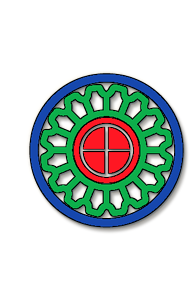
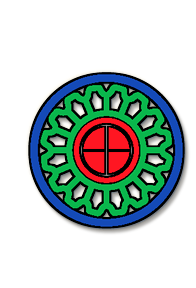
Improve tile symbol readability

diff --git a/tools/generate_cartoon_tile_symbols.py b/tools/generate_cartoon_tile_symbols.py
@@ -16,39 +16,42 @@ from PIL import Image, ImageEnhance, ImageFilter
 ROOT = Path(__file__).resolve().parents[1]
 SOURCE_DIR = ROOT / "res/art/tiles"
 OUT_DIR = ROOT / "res/art/ui_3d_cartoon/tile_symbols"
-CONTACT_SHEET = ROOT / "docs/ui_baseline/mockups/tile_symbols_v1_0_14_contact_sheet.png"
+CONTACT_SHEET = ROOT / "docs/ui_baseline/mockups/tile_symbols_v1_0_17_contact_sheet.png"
 SYMBOL_SIZE = (196, 288)
 SUITS = ("tiao", "tong", "wan")
 SUIT_PARAMS = {
 	"tiao": {
-		"thicken": 3,
-		"alpha": 1.18,
-		"color": 1.08,
-		"contrast": 1.05,
-		"glow": 0.20,
-		"shadow": 0.38,
-		"highlight": 0.18,
-		"rim": (32, 100, 42, 0),
+		"thicken": 5,
+		"alpha": 1.30,
+		"color": 1.12,
+		"contrast": 1.12,
+		"glow": 0.18,
+		"shadow": 0.40,
+		"highlight": 0.24,
+		"rim": (22, 118, 48, 0),
+		"core": (22, 138, 58, 0),
 	},
 	"tong": {
-		"thicken": 3,
-		"alpha": 1.15,
-		"color": 1.10,
-		"contrast": 1.08,
-		"glow": 0.18,
-		"shadow": 0.36,
-		"highlight": 0.16,
-		"rim": (36, 78, 120, 0),
+		"thicken": 4,
+		"alpha": 1.25,
+		"color": 1.13,
+		"contrast": 1.13,
+		"glow": 0.17,
+		"shadow": 0.38,
+		"highlight": 0.22,
+		"rim": (26, 74, 138, 0),
+		"core": (20, 116, 72, 0),
 	},
 	"wan": {
-		"thicken": 5,
-		"alpha": 1.22,
-		"color": 1.06,
-		"contrast": 1.10,
-		"glow": 0.16,
+		"thicken": 6,
+		"alpha": 1.34,
+		"color": 1.10,
+		"contrast": 1.18,
+		"glow": 0.15,
 		"shadow": 0.42,
-		"highlight": 0.16,
-		"rim": (110, 30, 44, 0),
+		"highlight": 0.22,
+		"rim": (138, 26, 42, 0),
+		"core": (26, 92, 138, 0),
 	},
 }
 
@@ -58,12 +61,17 @@ def _mask(alpha: Image.Image, multiplier: float, blur: float = 0.0) -> Image.Ima
 	return mask.point(lambda value: min(255, int(value * multiplier)))
 
 
+def _odd_filter_size(value: int) -> int:
+	size = max(3, int(value))
+	return size if size % 2 == 1 else size + 1
+
+
 def soften_symbol(source_path: Path, suit: str) -> Image.Image:
 	params = SUIT_PARAMS[suit]
 	source = Image.open(source_path).convert("RGBA").resize(SYMBOL_SIZE, Image.Resampling.LANCZOS)
 	r, g, b, alpha = source.split()
 
-	expanded_alpha = alpha.filter(ImageFilter.MaxFilter(int(params["thicken"])))
+	expanded_alpha = alpha.filter(ImageFilter.MaxFilter(_odd_filter_size(int(params["thicken"]))))
 	soft_alpha = expanded_alpha.filter(ImageFilter.GaussianBlur(0.25)).point(
 		lambda value: min(255, int(value * float(params["alpha"])))
 	)
@@ -78,20 +86,28 @@ def soften_symbol(source_path: Path, suit: str) -> Image.Image:
 	contact_shadow.putalpha(_mask(soft_alpha, float(params["shadow"]), 1.35))
 
 	pressed_shadow = Image.new("RGBA", SYMBOL_SIZE, (52, 42, 24, 0))
-	pressed_shadow.putalpha(_mask(expanded_alpha, 0.20, 0.45))
+	pressed_shadow.putalpha(_mask(expanded_alpha, 0.18, 0.55))
 
 	rim = Image.new("RGBA", SYMBOL_SIZE, tuple(params["rim"]))
-	rim.putalpha(_mask(expanded_alpha, 0.24, 0.15))
+	rim.putalpha(_mask(expanded_alpha, 0.24, 0.20))
+
+	core_rim = Image.new("RGBA", SYMBOL_SIZE, tuple(params["core"]))
+	core_rim.putalpha(_mask(alpha, 0.14, 0.10))
 
 	highlight = Image.new("RGBA", SYMBOL_SIZE, (255, 250, 210, 0))
-	highlight.putalpha(_mask(alpha, float(params["highlight"]), 0.35))
+	highlight.putalpha(_mask(alpha, float(params["highlight"]), 0.28))
+
+	edge_light = Image.new("RGBA", SYMBOL_SIZE, (255, 246, 204, 0))
+	edge_light.putalpha(_mask(expanded_alpha, 0.16, 0.70))
 
 	composed = Image.new("RGBA", SYMBOL_SIZE, (0, 0, 0, 0))
 	composed.alpha_composite(contact_shadow, (3, 4))
 	composed.alpha_composite(pressed_shadow, (1, 2))
 	composed.alpha_composite(glow, (-1, -1))
-	composed.alpha_composite(highlight, (-1, -2))
 	composed.alpha_composite(rim, (1, 1))
+	composed.alpha_composite(core_rim, (0, 0))
+	composed.alpha_composite(edge_light, (-1, -2))
+	composed.alpha_composite(highlight, (-1, -2))
 	composed.alpha_composite(symbol)
 	return composed
 

diff --git a/docs/ui_baseline/UX_REFINEMENT_TARGET_AND_PROGRESS.md b/docs/ui_baseline/UX_REFINEMENT_TARGET_AND_PROGRESS.md
@@ -2,7 +2,7 @@
 
 > 状态：执行中  
 > 首版日期：2026-05-11  
-> 当前版本：1.0.16
+> 当前版本：1.0.17
 > 目标界面：主牌桌对局界面  
 > 设计方向：3D 卡通轻奢质感 Mahjong UI  
 > 执行原则：保留已校准布局，逐步资产化和统一视觉系统，每次版本更新后检查目标完成度并继续推进未完成任务。
@@ -35,15 +35,15 @@
 | 布局稳定性 | 现有四家牌区、碰杠、胡牌、弃牌、按钮位置不被破坏，布局合同测试通过 | 85% |
 | 桌面统一性 | 无明显分区底色/边框；桌面有连续绒布纹理、中心光、暗角，但无抢眼装饰线 | 72% |
 | 麻将牌本体 | 厚牌圆角、暖象牙牌面、绿色侧边、统一投影；正背面同一资产体系 | 77% |
-| 正面牌纹 | 条、筒、万、幺鸡等符号与新牌底同风格，线条柔和清晰，不像旧贴图 | 64% |
+| 正面牌纹 | 条、筒、万、幺鸡等符号与新牌底同风格，线条柔和清晰，不像旧贴图 | 70% |
 | 牌背 | 素玉牌背与桌面有足够分离度，无旧圈纹，阴影统一 | 76% |
 | 玩家信息 HUD | 贴边、清晰、弱面板化；字体、头像/定缺、分数、已胡状态统一 | 70% |
 | 操作按钮 | 右上/动作按钮采用同系列 3D 果冻/玉石按钮，触控目标清晰 | 72% |
 | AI 提示 | 提示框居中、大字、只显示内容；推荐牌用悬浮 3D 标记，不遮挡读牌 | 74% |
-| 可访问性 | 手机横屏玩家名/分数/状态可读；关键文字对比度足够，不仅靠颜色表达状态 | 70% |
+| 可访问性 | 手机横屏玩家名/分数/状态可读；关键文字对比度足够，不仅靠颜色表达状态 | 72% |
 | 启动图一致性 | 整体材质、光照、圆润度、颜色气质接近启动界面 | 60% |
 
-当前综合完成度：约 80%。
+当前综合完成度：约 82%。
 达到 100% 的判定：上表所有维度均不低于 90%，且用户截图评审确认「整体接近预期效果」。
 
 ## 4. 执行步骤
@@ -170,10 +170,11 @@
 | 1.0.15 | `797d5ea` | 2026-05-11 | 弱化玩家 HUD 旧式面板边框与阴影，增强软高光层；动作按钮、右上按钮和浮动按钮补充更明显的玉石高光、hover/pressed 层次与按压位移；同步版本号 | `V17 LAYOUT CONTRACT OK`；截图 `docs/ui_baseline/captures/main_scene_v1_0_15_candidate.png`、`docs/ui_baseline/captures/main_scene_v1_0_15_mobile_1365x768.png` | 77% | 继续步骤 3/4/5/6：HUD 九宫格资产化、按钮贴图化、大小牌材质统一 |
[1 lines of base64/hex data omitted]
 | 1.0.16 | `7146f50` | 2026-05-11 | 桌面小牌、碰杠牌、胡牌和背牌补同源内凹边缘、高光与右侧釉面阴影；玩家身份 HUD 抽为统一玉牌式九宫格边距和软阴影；右上按钮与动作按钮补足 pressed/disabled 的低亮玉石状态；同步版本号 | `V17 LAYOUT CONTRACT OK`；截图 `docs/ui_baseline/captures/main_scene_v1_0_16_candidate.png`、`docs/ui_baseline/captures/main_scene_v1_0_16_mobile_1365x768.png` | 80% | 继续步骤 2/4/6/7：牌纹细节手工再设计、HUD 贴图资产化、桌面边缘暗角与移动端可读性继续评审 |
+| 1.0.17 | 本次提交 | 2026-05-11 | 重新调参生成整套 27 张正面牌纹：条/筒/万整体提升厚度、不透明度、对比度和柔和高光；万字保留红蓝分层并增强远景识别；新增 `tile_symbols_v1_0_17_contact_sheet.png`；同步版本号 | `V17 LAYOUT CONTRACT OK`；截图 `docs/ui_baseline/captures/main_scene_v1_0_17_candidate.png`、`docs/ui_baseline/captures/main_scene_v1_0_17_mobile_1365x768.png`；牌纹对照 `docs/ui_baseline/mockups/tile_symbols_v1_0_17_contact_sheet.png` | 82% | 继续步骤 4/5/6/7：HUD/按钮贴图资产化、启动图一致性提升、移动端文字与桌面边缘继续评审 |
 
 ## 6. 未完成任务池
 
-- 继续精修整套正面牌纹资源；1.0.14 已按花色加厚并增强浮雕感，下一轮重点做幺鸡细节、万字红蓝上下结构的手工再设计，以及桌面小牌远景可读性。
+- 继续精修整套正面牌纹资源；1.0.17 已整体提升 27 张条/筒/万牌纹厚度、对比度和远景可读性，下一轮重点做幺鸡细节手工优化、万字红蓝结构再精修，以及避免描边过硬。
 - 继续将本家手牌从“白片感”提升为明显厚玉牌；1.0.16 已补牌面/背面程序级内凹边缘和边角高光，下一轮需进一步资产化牌面厚度与底部接触阴影。
 - 统一桌面小牌、碰杠牌、胡牌、弃牌的材质比例；1.0.16 已让小牌和大牌共享内凹高光逻辑，下一轮继续检查明度、厚度和远景可读性。
 - 继续弱化玩家信息框旧式大面板感；1.0.16 已把身份 HUD 抽为统一玉牌式九宫格边距和软阴影，下一轮重点做 HUD 贴图资产或更细的内高光。
